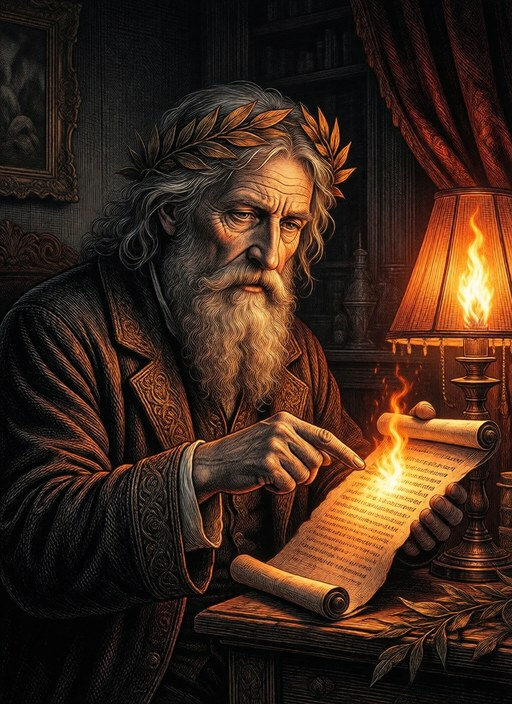
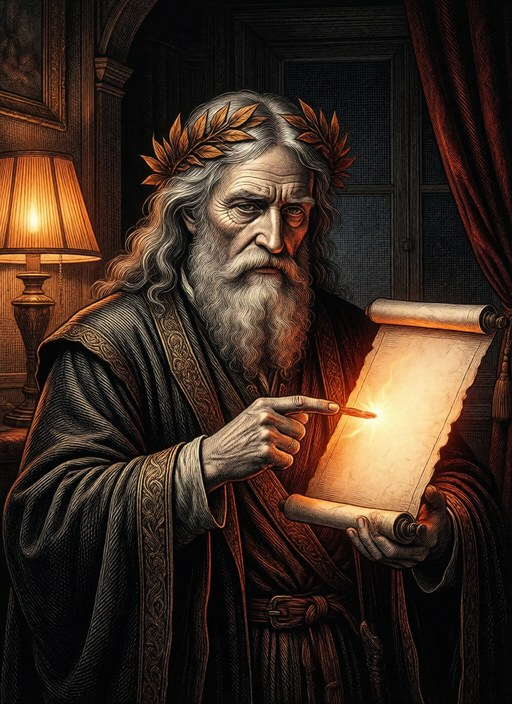
Use the re-generated seed-778 art for 6 cards (text or anatomy fixed)
Claude-Session: https://claude.ai/code/session_01DdQNqCW4E72dFJiXExsGjP

diff --git a/tools/cards/art_jobs.py b/tools/cards/art_jobs.py
@@ -171,6 +171,11 @@ def _fit(src: str, dst: str, size=(512, 704), focus=0.45) -> None:
     im.crop((l, t, l + tw, t + th)).save(dst, quality=88)
 
 
+# Re-generated by the ComfyUI session (text in the image, or anatomy wrong): use seed 778 for these.
+V2_REVISED = {"uh_hoarded_coin", "uh_silencing_word", "mc_michael_scot", "pj_virgils_wisdom", "pj_harpy_of_the_wood",
+              "mc_bertran"}
+
+
 def import_v2() -> None:
     """Fetches the second card batch from the ComfyUI PC (read-only /view requests) and imports what exists."""
     import urllib.parse
@@ -182,10 +187,10 @@ def import_v2() -> None:
     got = missing = 0
     for c in todo:
         dst = os.path.join(ROOT, "assets", "cards", "art", c["id"] + ".jpg")
-        if os.path.exists(dst):
-            continue
-        name = c["id"] + "_s777_00001_.png"
+        name = c["id"] + ("_s778_00001_.png" if c["id"] in V2_REVISED else "_s777_00001_.png")
         src = os.path.join(src_dir, name)
+        if os.path.exists(dst) and (c["id"] not in V2_REVISED or os.path.exists(src)):
+            continue
         if not os.path.exists(src):
             q = urllib.parse.urlencode({"subfolder": "dantes_cards_v2", "type": "output", "filename": name})
             try:
